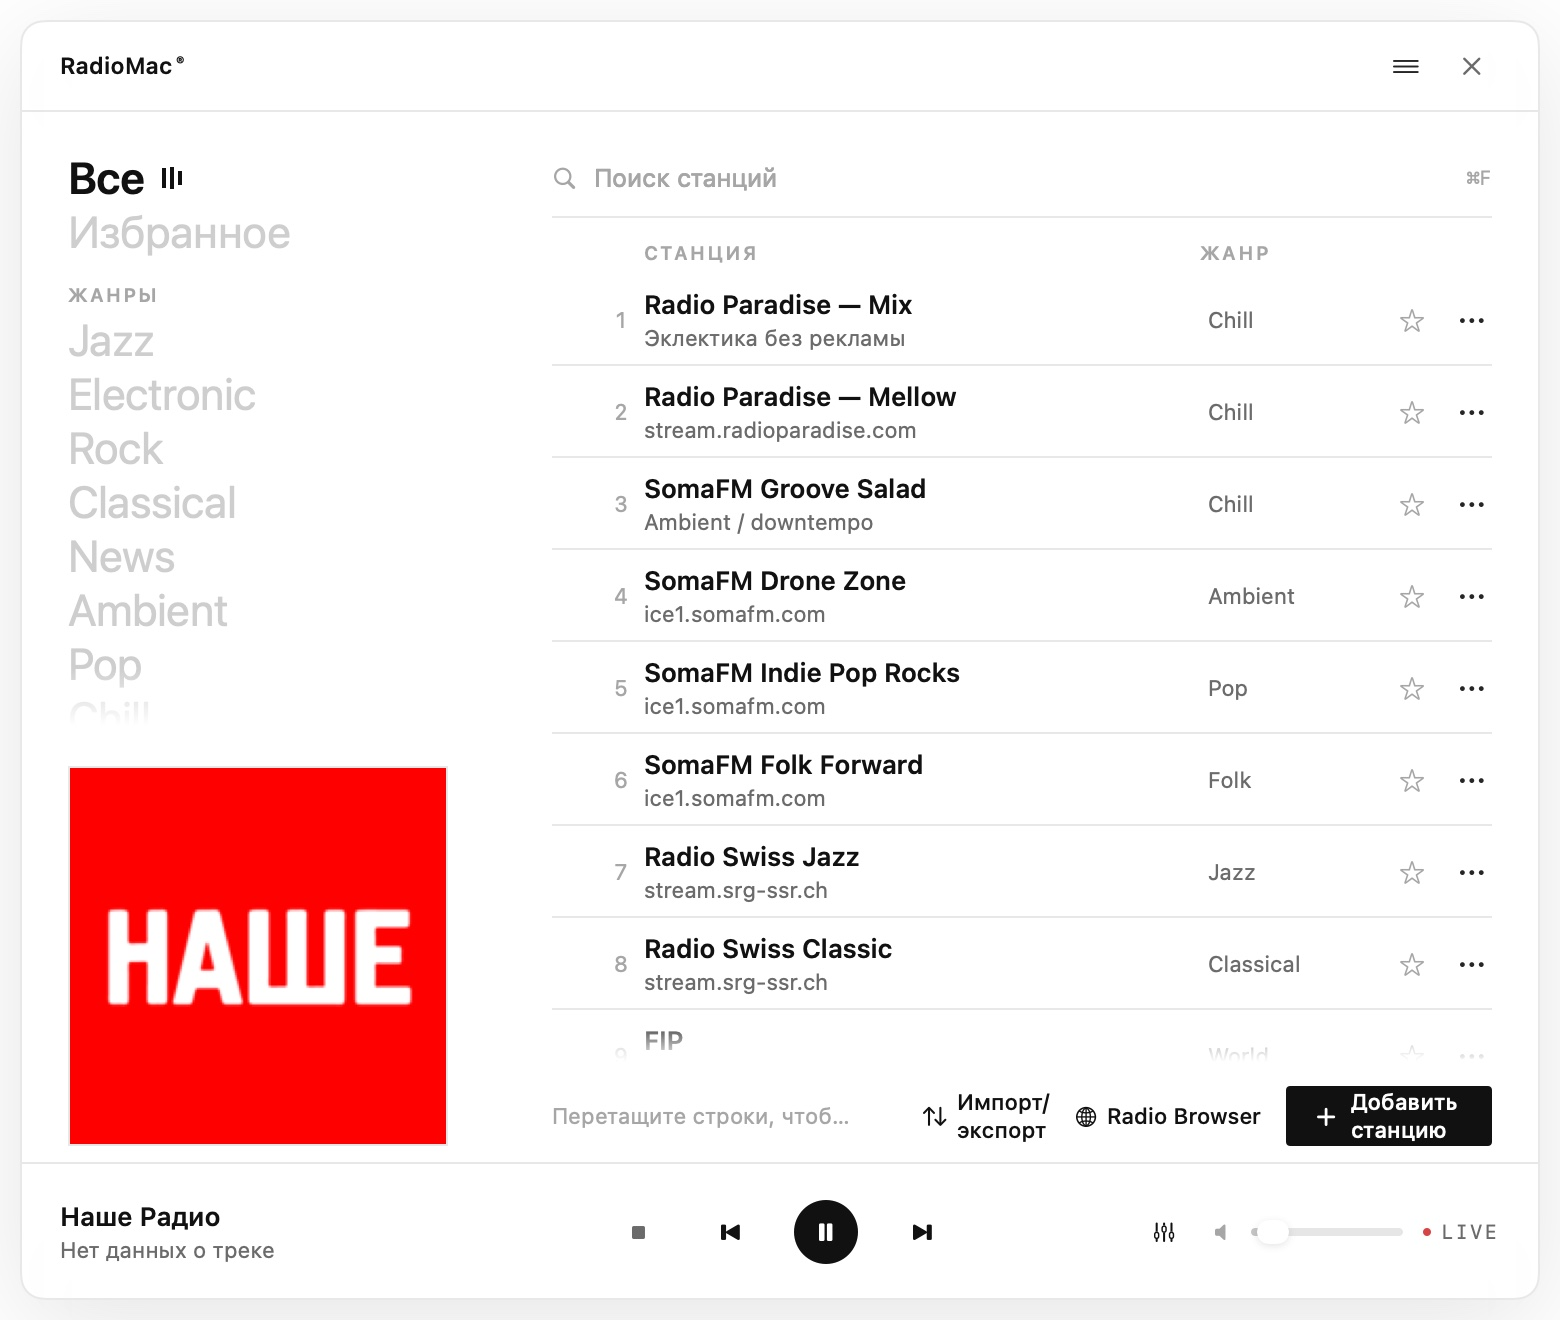
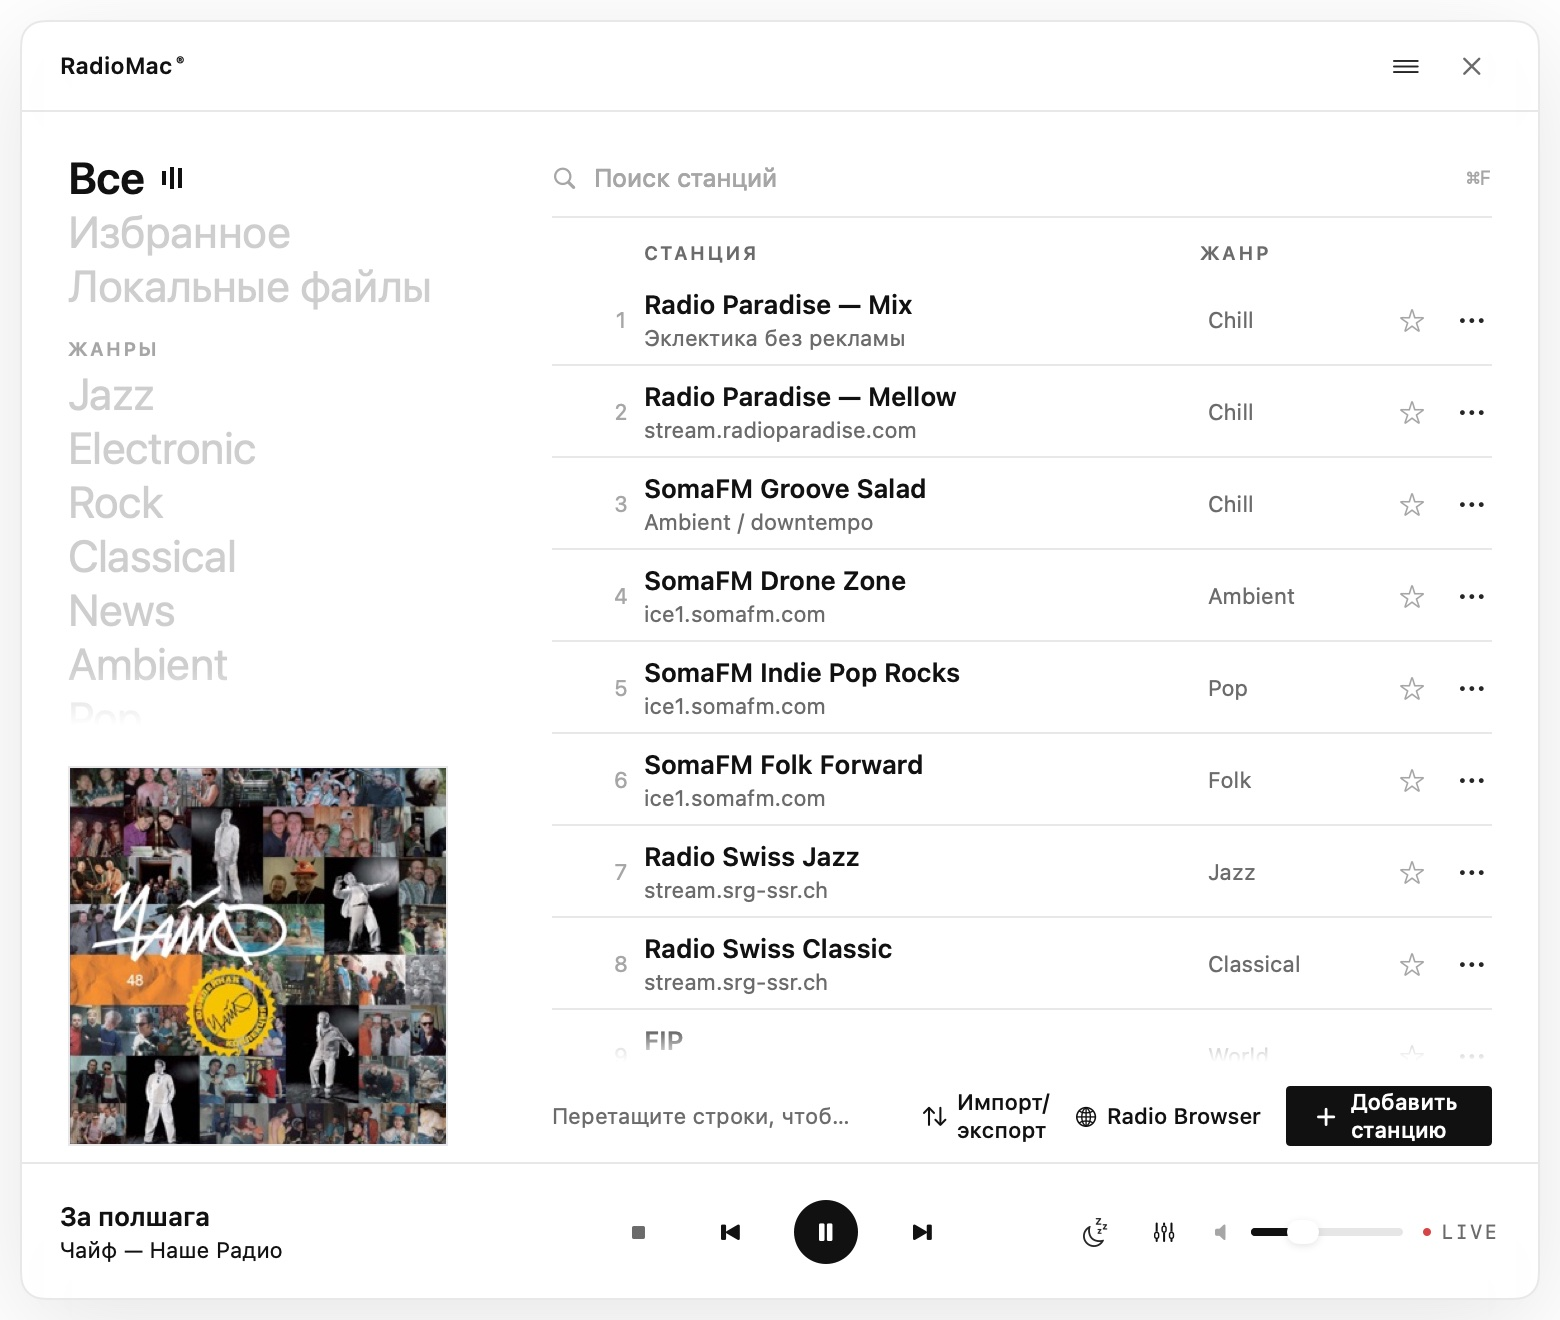
docs: refresh screenshots with the local files entry
Regenerated the site screenshots from the current Debug build so the main page
shows «Локальные файлы» and Settings shows the local music section. Alt texts
updated as well.

diff --git a/site/index.html b/site/index.html
@@ -164,7 +164,7 @@
       <div class="grid grid--shots">
         <figure class="shot">
           <img src="assets/screenshots/main-dark.jpg" width="1560" height="1320" loading="lazy"
-               alt="Главное окно RadioMac в тёмной теме: жанры, станции, импорт и Radio Browser">
+               alt="Главное окно RadioMac в тёмной теме: жанры, станции, пункт «Локальные файлы», импорт и Radio Browser">
           <figcaption>Тёмная тема — та же система в инверсии</figcaption>
         </figure>
         <figure class="shot">
@@ -174,7 +174,7 @@
         </figure>
         <figure class="shot">
           <img src="assets/screenshots/settings.jpg" width="1560" height="1320" loading="lazy"
-               alt="Настройки RadioMac: оформление, поведение, будильник, звук, обновления и поток">
+               alt="Настройки RadioMac: оформление, локальная музыка, поведение, будильник, звук и поток">
           <figcaption>Настройки</figcaption>
         </figure>
         <figure class="shot">
